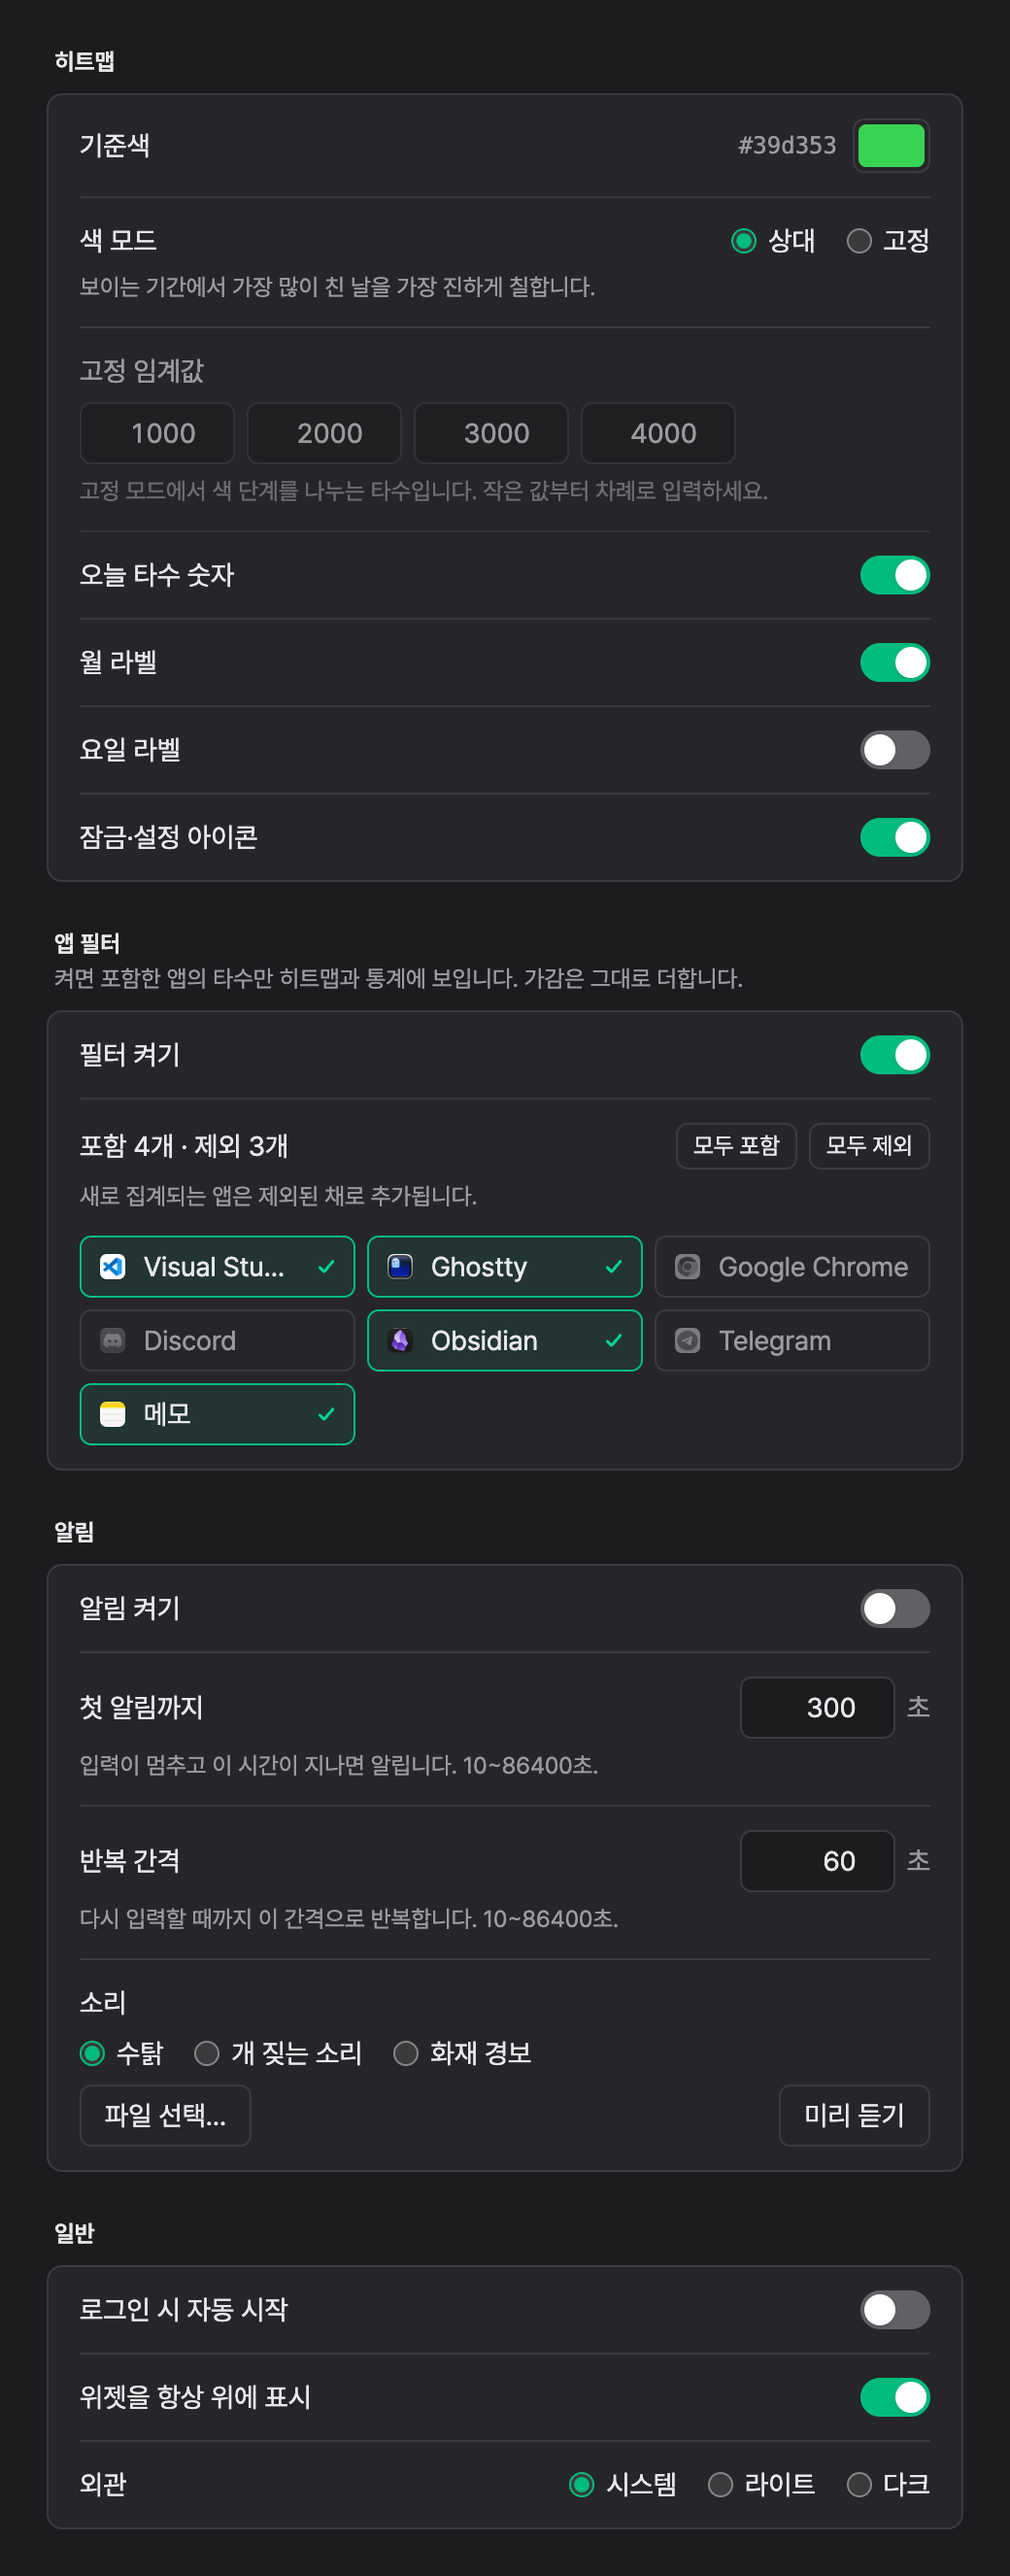
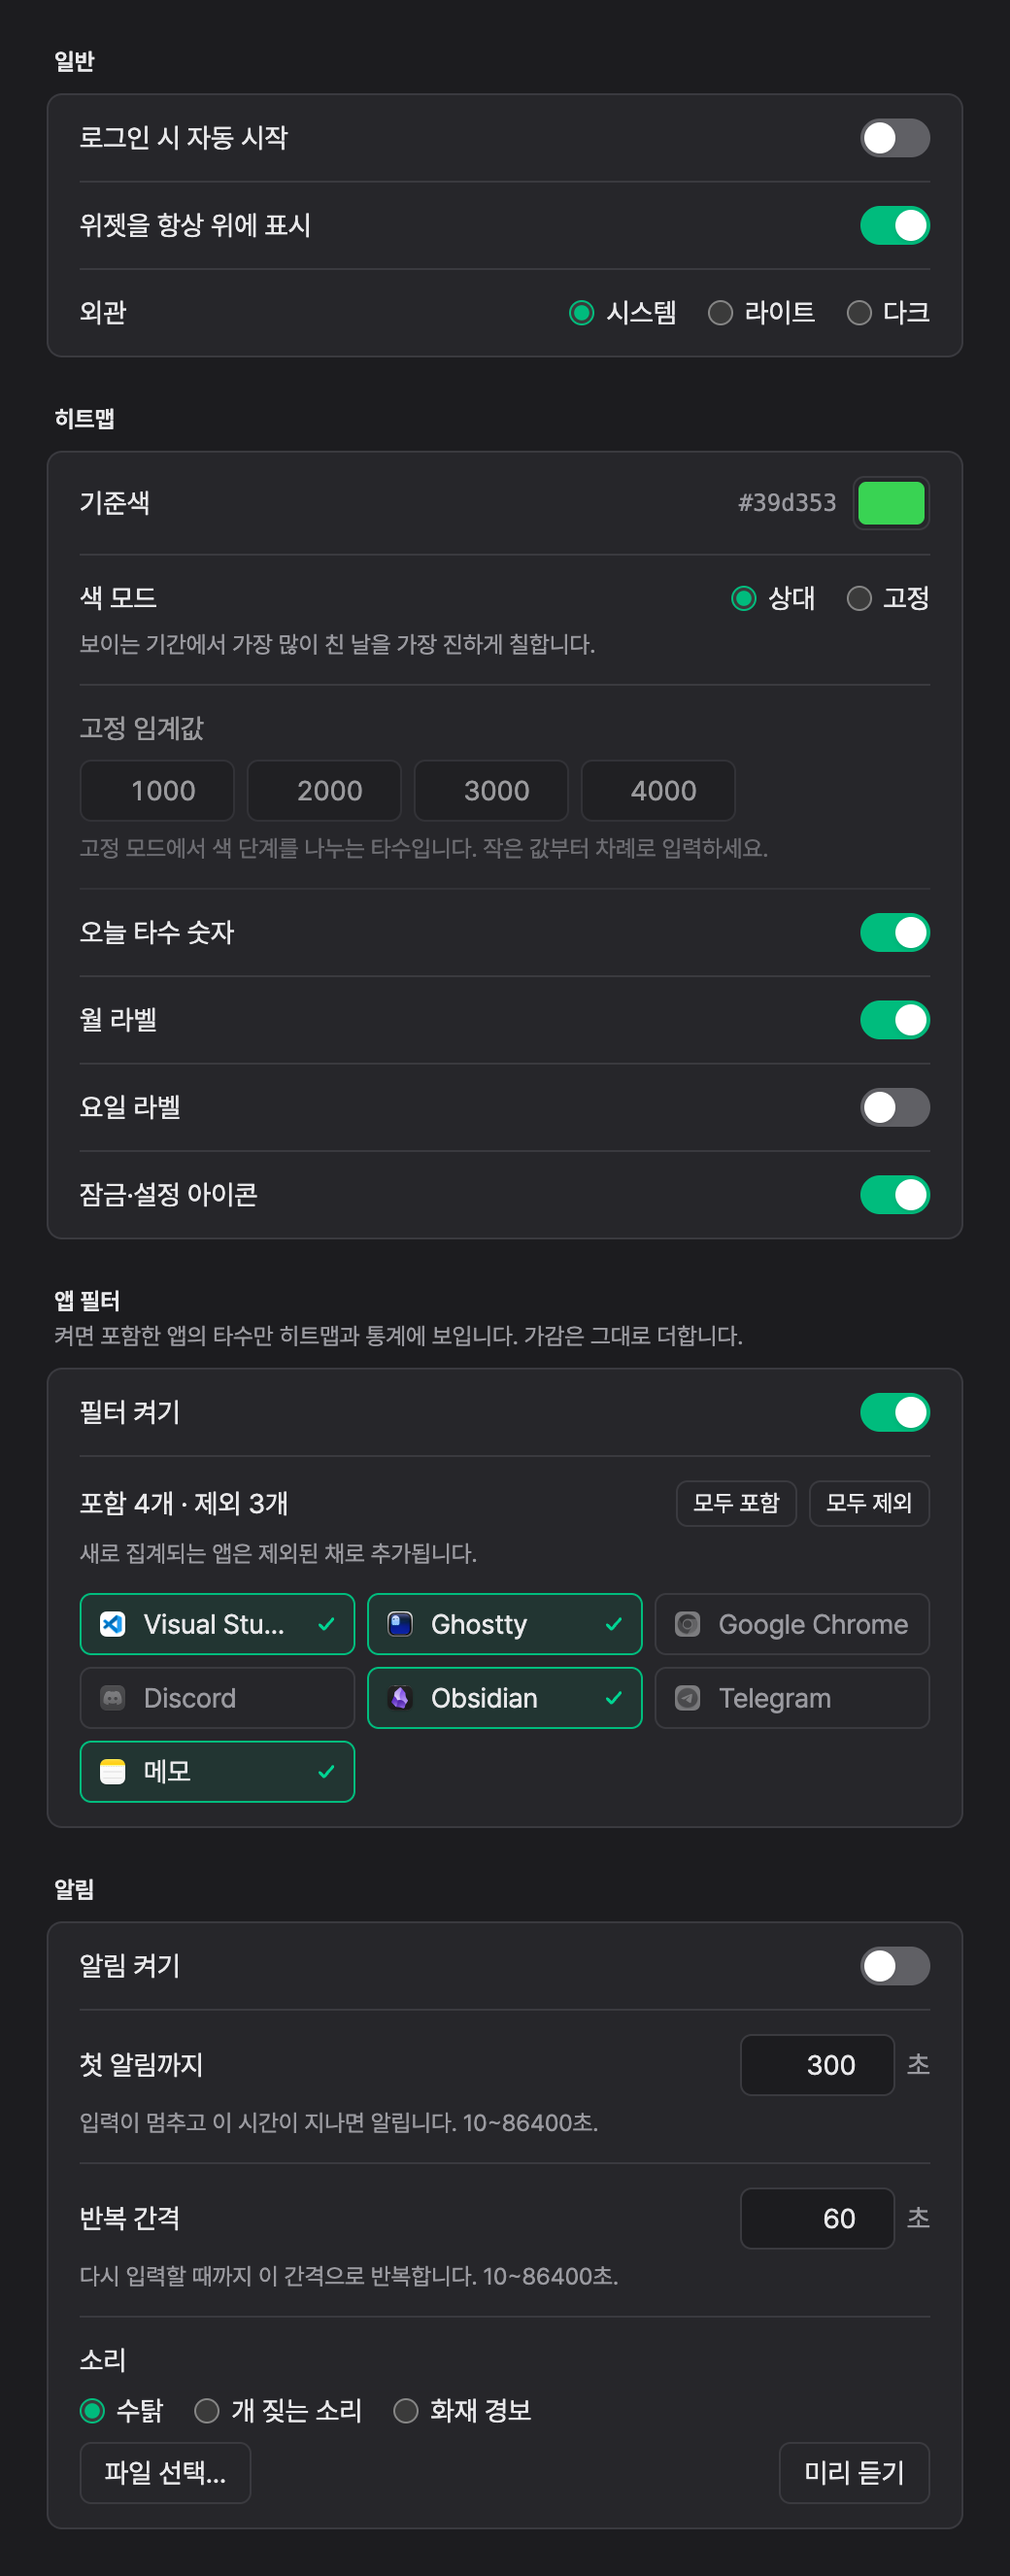
설정 일반 섹션 맨 위로

diff --git a/src/renderer/features/settings-form/ui/SettingsForm.tsx b/src/renderer/features/settings-form/ui/SettingsForm.tsx
@@ -7,15 +7,12 @@ import { HeatmapSection } from './HeatmapSection'
 
 type Props = { onPreview(sound: SoundSetting): void }
 
-/** 히트맵·앱 필터·알림·일반 네 섹션. 바꿀 때마다 바로 저장하고, 거부되면 그 섹션 아래에 이유를 보여 준다. */
+/** 일반·히트맵·앱 필터·알림 네 섹션. 바꿀 때마다 바로 저장하고, 거부되면 그 섹션 아래에 이유를 보여 준다. */
 export function SettingsForm({ onPreview }: Props) {
   const { settings, errors, change } = useSettingsForm()
   if (!settings) return null
   return (
     <>
-      <HeatmapSection heatmap={settings.heatmap} errors={errors.heatmap} onChange={change} />
-      <FilterSection filter={settings.filter} errors={errors.filter} onChange={change} />
-      <AlertSection alert={settings.alert} errors={errors.alert} onChange={change} onPreview={onPreview} />
       {/* 항상 위(위젯 묶음)는 일반 섹션에 있으므로 그 오류도 일반 아래에 보여 준다 */}
       <GeneralSection
         general={settings.general}
@@ -23,6 +20,9 @@ export function SettingsForm({ onPreview }: Props) {
         errors={[...(errors.general ?? []), ...(errors.widget ?? [])]}
         onChange={change}
       />
+      <HeatmapSection heatmap={settings.heatmap} errors={errors.heatmap} onChange={change} />
+      <FilterSection filter={settings.filter} errors={errors.filter} onChange={change} />
+      <AlertSection alert={settings.alert} errors={errors.alert} onChange={change} onPreview={onPreview} />
     </>
   )
 }
